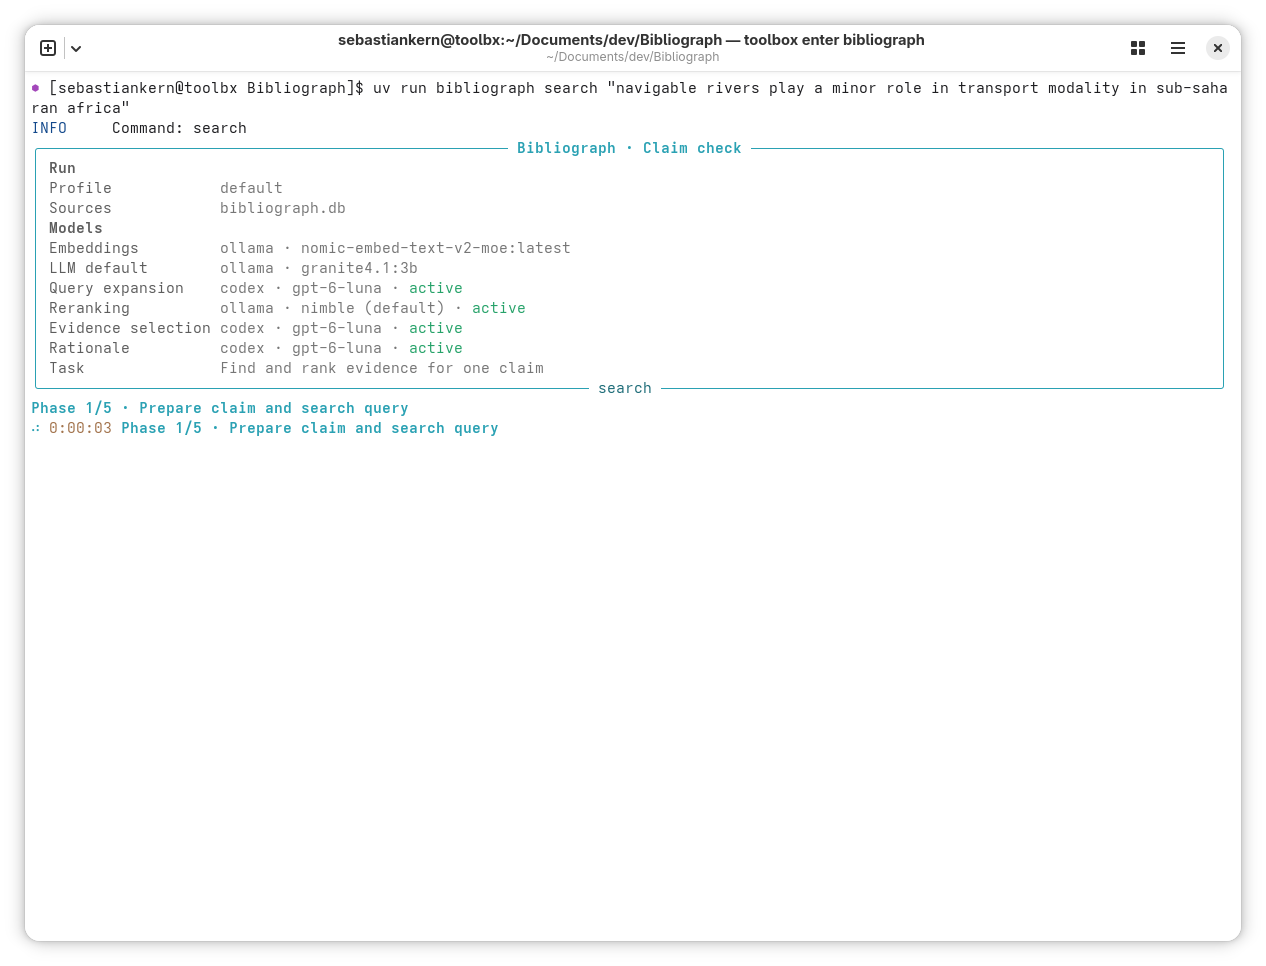
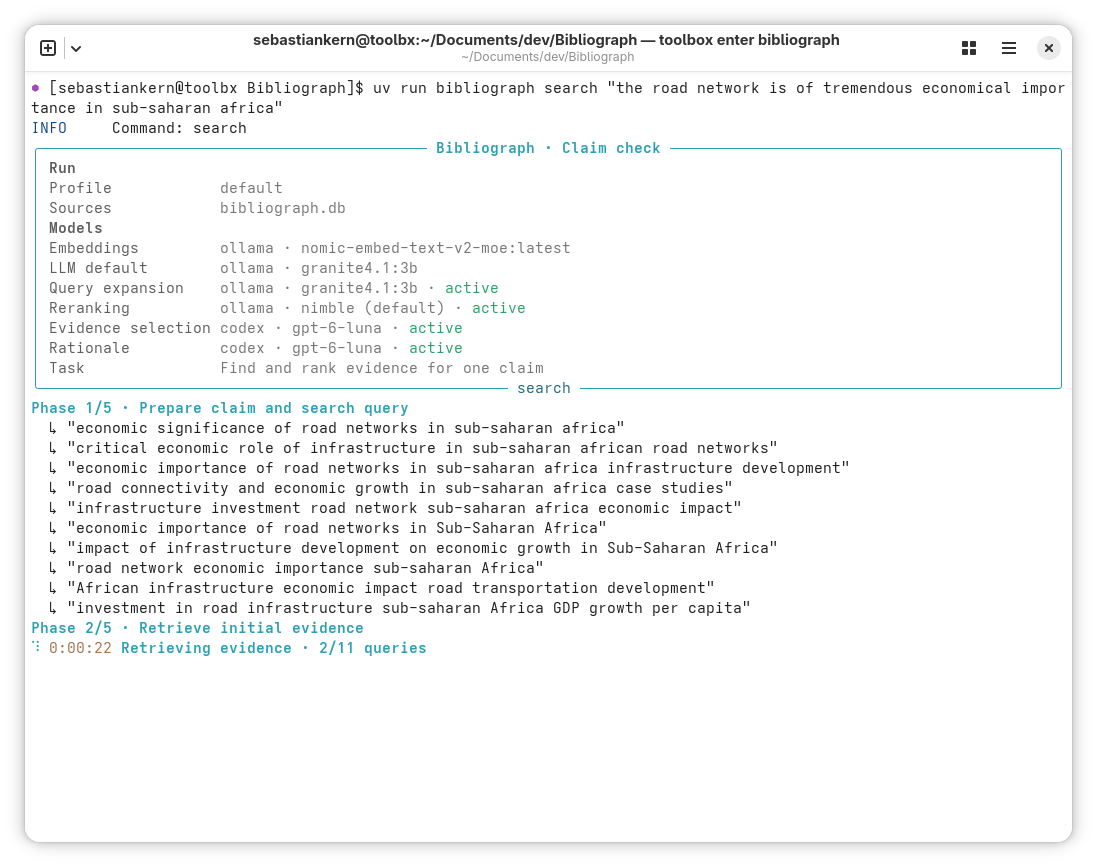
feat: Improve output wrapping and workflow timing breakdown

Changed region(s): [[0.0, 0.0311, 0.9918, 0.7785]]

diff --git a/bibliograph/pipeline/timing.py b/bibliograph/pipeline/timing.py
@@ -73,14 +73,66 @@ def format_workflow_timings(
         sample = timings.get(key, {})
         seconds = float(sample.get("seconds", 0.0))
         if seconds:
-            measured.append((label, seconds, int(sample.get("calls", 0))))
-    measured.sort(key=lambda value: value[1], reverse=True)
-    other = max(0.0, total - sum(seconds for _label, seconds, _calls in measured))
+            measured.append((label, key, seconds, int(sample.get("calls", 0))))
+    measured.sort(key=lambda value: value[2], reverse=True)
+    other = max(0.0, total - sum(seconds for _label, _key, seconds, _calls in measured))
     lines = ["Time breakdown"]
-    for label, seconds, calls in measured:
+    for label, key, seconds, calls in measured:
         share = seconds / total * 100 if total else 0.0
-        lines.append(f"  {label:<23} {seconds:>7.2f}s · {calls} call(s) · {share:.0f}%")
+        detail = f"{seconds:>7.2f}s · {calls} call(s)"
+        if key == "evidence_assessment" and calls:
+            detail += f" · {seconds / calls:.2f}s avg"
+        lines.append(f"  {label:<23} {detail} · {share:.0f}%")
     lines.append(f"  {'Other operations':<23} {other:>7.2f}s")
+    other_details = _other_operation_breakdown(timings, other)
+    for depth, label, seconds in other_details:
+        if seconds >= 0.01:
+            display_label = "  " * depth + label
+            lines.append(f"    {display_label:<27} {seconds:>7.2f}s")
     if verbose:
         lines.append("Detailed timings: " + format_timings(timings))
     return "\n".join(lines)
+
+
+def _other_operation_breakdown(
+    timings: dict[str, dict[str, float | int]], other: float
+) -> list[tuple[int, str, float]]:
+    """Break the remainder into non-overlapping leaf timings where possible."""
+
+    def seconds(stage: str) -> float:
+        return float(timings.get(stage, {}).get("seconds", 0.0))
+
+    retrieval_children = sum(
+        seconds(stage)
+        for stage in ("embedding", "vector_search", "lexical_search", "graph_expansion")
+    )
+    top_level = [
+        ("Search setup", max(0.0, seconds("plan") - seconds("query_expansion"))),
+        ("Retrieval", seconds("retrieval")),
+        ("Context preparation", seconds("context")),
+        (
+            "Evidence workflow overhead",
+            max(
+                0.0,
+                seconds("assessment_and_rerank")
+                - seconds("evidence_assessment")
+                - seconds("reranking"),
+            ),
+        ),
+        ("Context extension", seconds("context_extension")),
+        ("Result finalization", seconds("finish")),
+    ]
+    details = [(1, "Search setup", top_level[0][1]), (1, "Retrieval", seconds("retrieval"))]
+    details.extend(
+        [
+            (2, "Query embedding", seconds("embedding")),
+            (2, "Vector search", seconds("vector_search")),
+            (2, "Lexical search", seconds("lexical_search")),
+            (2, "Graph expansion", seconds("graph_expansion")),
+            (2, "Other retrieval work", max(0.0, seconds("retrieval") - retrieval_children)),
+        ]
+    )
+    details.extend((1, label, value) for label, value in top_level[2:])
+    measured = sum(value for _label, value in top_level)
+    details.append((1, "Unattributed / coordination", max(0.0, other - measured)))
+    return details

diff --git a/bibliograph/cli.py b/bibliograph/cli.py
@@ -545,7 +545,9 @@ def _emit(markdown: str, output: Path | None) -> None:
 
 
 def _emit_marked_markdown(markdown, marker_pattern, styles, console) -> None:
-    quote_line_pattern = re.compile(r"^\s*- (?P<quote>.*)$")
+    quote_line_pattern = re.compile(
+        r"^\s*- (?P<quote>(?:⟦(?:support|partial|contradict|mixed|unresolved)⟧)?“.*)$"
+    )
     attribution_pattern = re.compile(r"^ {4}— \*(?P<title>.*?)\*(?P<details>.*)$")
     chunks = markdown.splitlines(keepends=True)
     markdown_chunk = []
@@ -557,7 +559,7 @@ def _emit_marked_markdown(markdown, marker_pattern, styles, console) -> None:
                 if markdown_chunk:
                     console.print(Markdown("".join(markdown_chunk)), end="")
                     markdown_chunk.clear()
-                rendered = Text("      — ")
+                rendered = Text()
                 rendered.append(attribution.group("title"), style="italic")
                 details = attribution.group("details")
                 citation = re.search(r"\*\*(.*?)\*\*", details)
@@ -567,10 +569,10 @@ def _emit_marked_markdown(markdown, marker_pattern, styles, console) -> None:
                     rendered.append(details[citation.end() :])
                 else:
                     rendered.append(details)
-                console.print(rendered)
-            else:
-                markdown_chunk.append(chunk)
-            continue
+                _print_inset_text(
+                    console, rendered, prefix="      — ", continuation="        "
+                )
+                continue
         quote_line = quote_line_pattern.match(line)
         if quote_line is None:
             markdown_chunk.append(chunk)
@@ -579,13 +581,23 @@ def _emit_marked_markdown(markdown, marker_pattern, styles, console) -> None:
             console.print(Markdown("".join(markdown_chunk)), end="")
             markdown_chunk.clear()
         quote = quote_line.group("quote")
-        rendered = Text("    • ")
+        rendered = Text()
         position = 0
         for match in marker_pattern.finditer(quote):
             rendered.append(quote[position : match.start()])
             rendered.append(match.group("text"), style=styles[match.group("kind")])
             position = match.end()
         rendered.append(quote[position:])
-        console.print(rendered)
+        _print_inset_text(console, rendered, prefix="    • ", continuation="      ")
     if markdown_chunk:
         console.print(Markdown("".join(markdown_chunk)), end="")
+
+
+def _print_inset_text(console, text: Text, *, prefix: str, continuation: str) -> None:
+    """Wrap a styled line while keeping continuation lines under its content."""
+    available = max(1, console.width - len(continuation))
+    wrapped = text.wrap(console, available, overflow="fold") or [Text()]
+    for index, line in enumerate(wrapped):
+        output = Text(prefix if index == 0 else continuation)
+        output.append_text(line)
+        console.print(output)

diff --git a/README.md b/README.md
@@ -8,6 +8,9 @@ Bibliograph finds evidence for claims in a local paper library and helps verify 
 
 ![Bibliograph example](./image.png)
 
+![Bibliograph example](./output.png)
+
+
 ## Install
 
 Bibliograph requires Python 3.12 or newer and uses [uv](https://docs.astral.sh/uv/).
